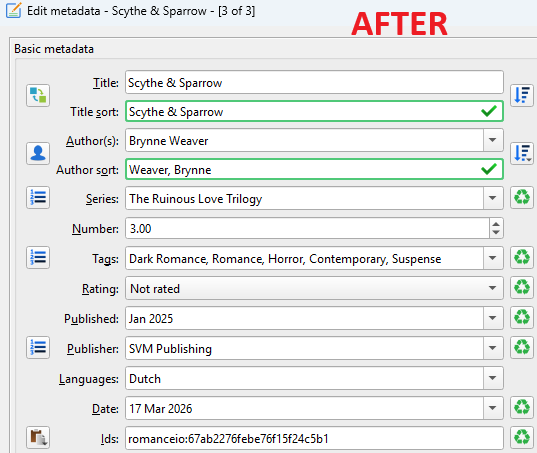
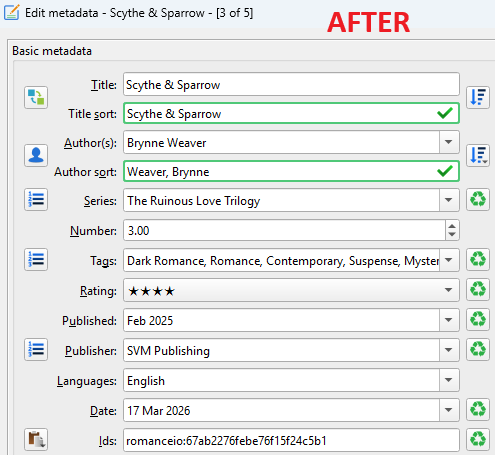
update readmes

Changed region(s): [[0.0, 0.0, 1.0, 1.0], [0.1818, 0.9581, 0.6667, 0.989], [0.0606, 0.9581, 0.1212, 0.989]]

diff --git a/README.md b/README.md
@@ -3,7 +3,7 @@
 Two Calibre plugins that link your library with [Romance.io](https://romance.io), a website for romance novels that provides steam ratings, user star ratings, and detailed tagging (tropes, themes, settings, etc.) that you can't get from Goodreads or Amazon.
 
 - Adds a clickable link to the book's Romance.io page in Calibre's book details panel (both plugins)
-- Adds cover art, series, and publication date from Romance.io (Romance.io metadata plugin)
+- Adds cover art, series, star rating, description, and publication date from Romance.io (Romance.io metadata plugin)
 - Adds Romance.io tags to Calibre's Tags field based on a customizable mapping (Romance.io metadata plugin)
 - Adds steam rating, star rating, and vote count to custom columns (Romance.io Fields plugin)
 - Adds Romance.io tags to a custom column so you can sort and filter your library by tropes, themes, settings, and more (Romance.io Fields plugin)
@@ -16,7 +16,7 @@ Two Calibre plugins that link your library with [Romance.io](https://romance.io)
 
 ## Romance.io - Metadata Source Plugin for Calibre
 
-Adds [Romance.io](https://romance.io) as an additional source for Calibre's metadata download system. When you run a metadata download on a book, Calibre searches for the book by title and author on sites including [Romance.io](https://romance.io), and if the book is found, connects the book in your library to the book on [Romance.io](https://romance.io) so that you can click a link to go straight to the book's [Romance.io](https://romance.io) page, and see metadata like the cover image, series, date published, and genre tags in your Calibre library.
+Adds [Romance.io](https://romance.io) as an additional source for Calibre's metadata download system. When you run a metadata download on a book, Calibre searches for the book by title and author on sites including [Romance.io](https://romance.io), and if the book is found, connects the book in your library to the book on [Romance.io](https://romance.io) so that you can click a link to go straight to the book's [Romance.io](https://romance.io) page, and see metadata like the cover image, series, star rating, description, date published, and genre tags in your Calibre library.
 
 ![Calibre "Downloading metadata" menu, first page, showing a book result that is linked to a result from Romance.io (Funny Story by Emily Henry)](images/Metadata%20download%20result1.png)
 
@@ -24,7 +24,7 @@ Adds [Romance.io](https://romance.io) as an additional source for Calibre's meta
 
 ![Screenshot of the Calibre book details panel with an arrow pointing to the link to Romance.io](images/Link%20to%20Romanceio.png)
 
-Completing the metadata download will populate fields from [Romance.io](https://romance.io): series, series number, tags, date published, and ID used in the [Romance.io](https://romance.io) URL.
+Completing the metadata download will populate fields from [Romance.io](https://romance.io): series, series number, tags, star rating, description (stored as Comments in Calibre), date published, and ID used in the [Romance.io](https://romance.io) URL.
 
 ![Screenshot of the Calibre "Edit metadata" panel before searching Romance.io for metadata](images/Scythe%20before.png) ![Screenshot of the Calibre "Edit metadata" panel after searching Romance.io for metadata](images/Scythe%20after.png)
 
@@ -33,23 +33,35 @@ Completing the metadata download will populate fields from [Romance.io](https://
 1. Once the plugin is loaded, ensure that it is enabled by going to Preferences > Metadata download and checking the box next to "Romance.io".
 2. Select a book, click **Edit metadata** in the main Calibre toolbar, then click **Download metadata**, and wait for results. If there is a match found for the book on Romance.io, Calibre will show "**See at:** Romance.io" on the right panel for the matching search result. Click "OK" to match the book to this Romance.io ID and download metadata from [Romance.io](https://romance.io).
 
-![Calibre "Downloading metadata" menu, first page, showing a book result that is linked to a result from Romance.io (Funny Story by Emily Henry)](images/Metadata%20download%20result1.png)
+    ![Calibre "Downloading metadata" menu, first page, showing a book result that is linked to a result from Romance.io (Funny Story by Emily Henry)](images/Metadata%20download%20result1.png)
 
 ### Configuration
 
+#### Metadata fields to download
+You can choose which fields you want to populate from [Romance.io](https://romance.io). There are two places in Calibre where fields can be turned on or off — if a field isn't downloading, check both:
+
+1. **Global field list** (**Preferences > Metadata download**, main page): Calibre has a global list of fields it will accept from any source. If a field is unchecked here, it won't be downloaded even if the source provides it.
+
+    ![Screenshot of the Preferences > Metadata download page showing the global field checkboxes](images/Metadata%20download%20-%20global%20fields.png)
+
+2. **Per-source field list**: from the global Configure Metadata menu pictured above, if you select the Romance.io plugin from the list on the left, then click **Configure selected source**, here you can check or uncheck individual fields to control which fields the plugin downloads.
+
+     ![Screenshot of the Configure selected source dialog showing the Metadata fields to download checkboxes](images/Configure%20Metadata%20download%20-%20fields.png)
+
+#### Tag Mappings
+
 **Preferences > Metadata download > Romance.io > Configure selected source**
 
-- **Metadata fields to download** - choose which fields you want to populate from [Romance.io](https://romance.io)
-- **Romance.io tag to Calibre tag mappings** - controls how Romance.io tags are imported into Calibre's Tags field. Use the green "+" and red "-" buttons to add or remove mappings. Create one row for each Romance.io tag you want to map to one or more Calibre tags. The text you enter for the Romance.io tag must match how the tag looks on the website exactly. Any Romance.io tags that are not mapped will be ignored.
+**Romance.io tag to Calibre tag mappings** - controls how Romance.io tags are imported into Calibre's Tags field. Use the green "+" and red "-" buttons to add or remove mappings. Create one row for each Romance.io tag you want to map to one or more Calibre tags. The text you enter for the Romance.io tag must match how the tag looks on the website exactly. Any Romance.io tags that are not mapped will be ignored.
 
   ![Screenshot of the Configure Metadata download dialog with the "Filter and map Romance.io tags to calibre tags" checkbox checked](images/Configure%20Metadata%20download.png)
 
   To get all Romance.io tags as individual Calibre tags, uncheck **"Filter and map Romance.io tags to Calibre tags"**:
 
+  ![Configure Metadata download dialog showing the "Filter and map Romance.io tags to Calibre tags" checkbox unchecked](images/Uncheck%20map%20tags.png)
+
   - **Checked (default):** Only tags listed in the mapping table are imported. Each Romance.io tag maps to one or more Calibre tags of your choosing. Tags not in the table are dropped.
   - **Unchecked:** All Romance.io tags are imported as individual Calibre tags, with no filtering or renaming. Use this if you want to import every Romance.io tag for each book.
-
-  ![Configure Metadata download dialog showing the "Filter and map Romance.io tags to Calibre tags" checkbox unchecked](images/Uncheck%20map%20tags.png)
 
   With the box unchecked, the metadata download will import all tags from Romance.io as Calibre tags:
 
@@ -136,7 +148,7 @@ In Calibre, go to **Preferences > Plugins > Get new plugins**, search for "Roman
 For the Romance.io Fields plugin, you may have an extra step to ensure the plugin icon appears on the main toolbar. If you see a window asking you to "Select the toolbars and/or menus" to add the plugin to, select "The main toolbar" and "The main toolbar when a device is connected." If you don't see this prompt, you may need to add the plugin to the main toolbar manually in **Preferences > Toolbars & menus** and select "The main toolbar" from the dropdown, then find "Romance.io" in the available actions and click the ">" button to add it to the toolbar.
 
 **To get the latest version** before it's published to the plugin store, download the zip from the [GitHub releases page](https://github.com/plain-cover/calibre_plugins/releases) and install via **Preferences > Plugins > Load plugin from file**.
-- `Romance.io.zip` - metadata source plugin (ID, cover, series, tags)
+- `Romance.io.zip` - metadata source plugin (ID, cover, series, rating, description, tags, date published)
 - `Romance.io Fields.zip` - custom columns plugin (steam, stars, vote count, tags)
 
 ## Notes

diff --git a/romanceio/README.md b/romanceio/README.md
@@ -2,14 +2,14 @@
 
 > **For user-facing install and usage instructions, see the [main README](../README.md).**
 
-A Calibre metadata source plugin that searches Romance.io by title and author, stores the Romance.io book ID as a Calibre identifier, and optionally downloads fields like cover image, series, tags, and date published.
+A Calibre metadata source plugin that searches Romance.io by title and author, stores the Romance.io book ID as a Calibre identifier, and optionally downloads fields like cover image, series, tags, star rating, description, and date published.
 
 ## What This Plugin Does
 
 1. Searches [Romance.io](https://www.romance.io/) for books matching the title and author
 2. Parses search results to find the best match
 3. Stores the Romance.io ID in the book's `romanceio` identifier field
-4. Returns the cover URL so Calibre can offer it in cover selection, and additional fields like series and date published
+4. Returns the cover URL so Calibre can offer it in cover selection, and additional fields like series, description, star rating, tags, and date published
 5. Optionally maps Romance.io genre tags to Calibre tags via a configurable mapping table
 
 The stored `romanceio` identifier is the key that the companion [Romance.io Fields](../romanceio_fields/README.md) plugin can use to fetch ratings and tags.
